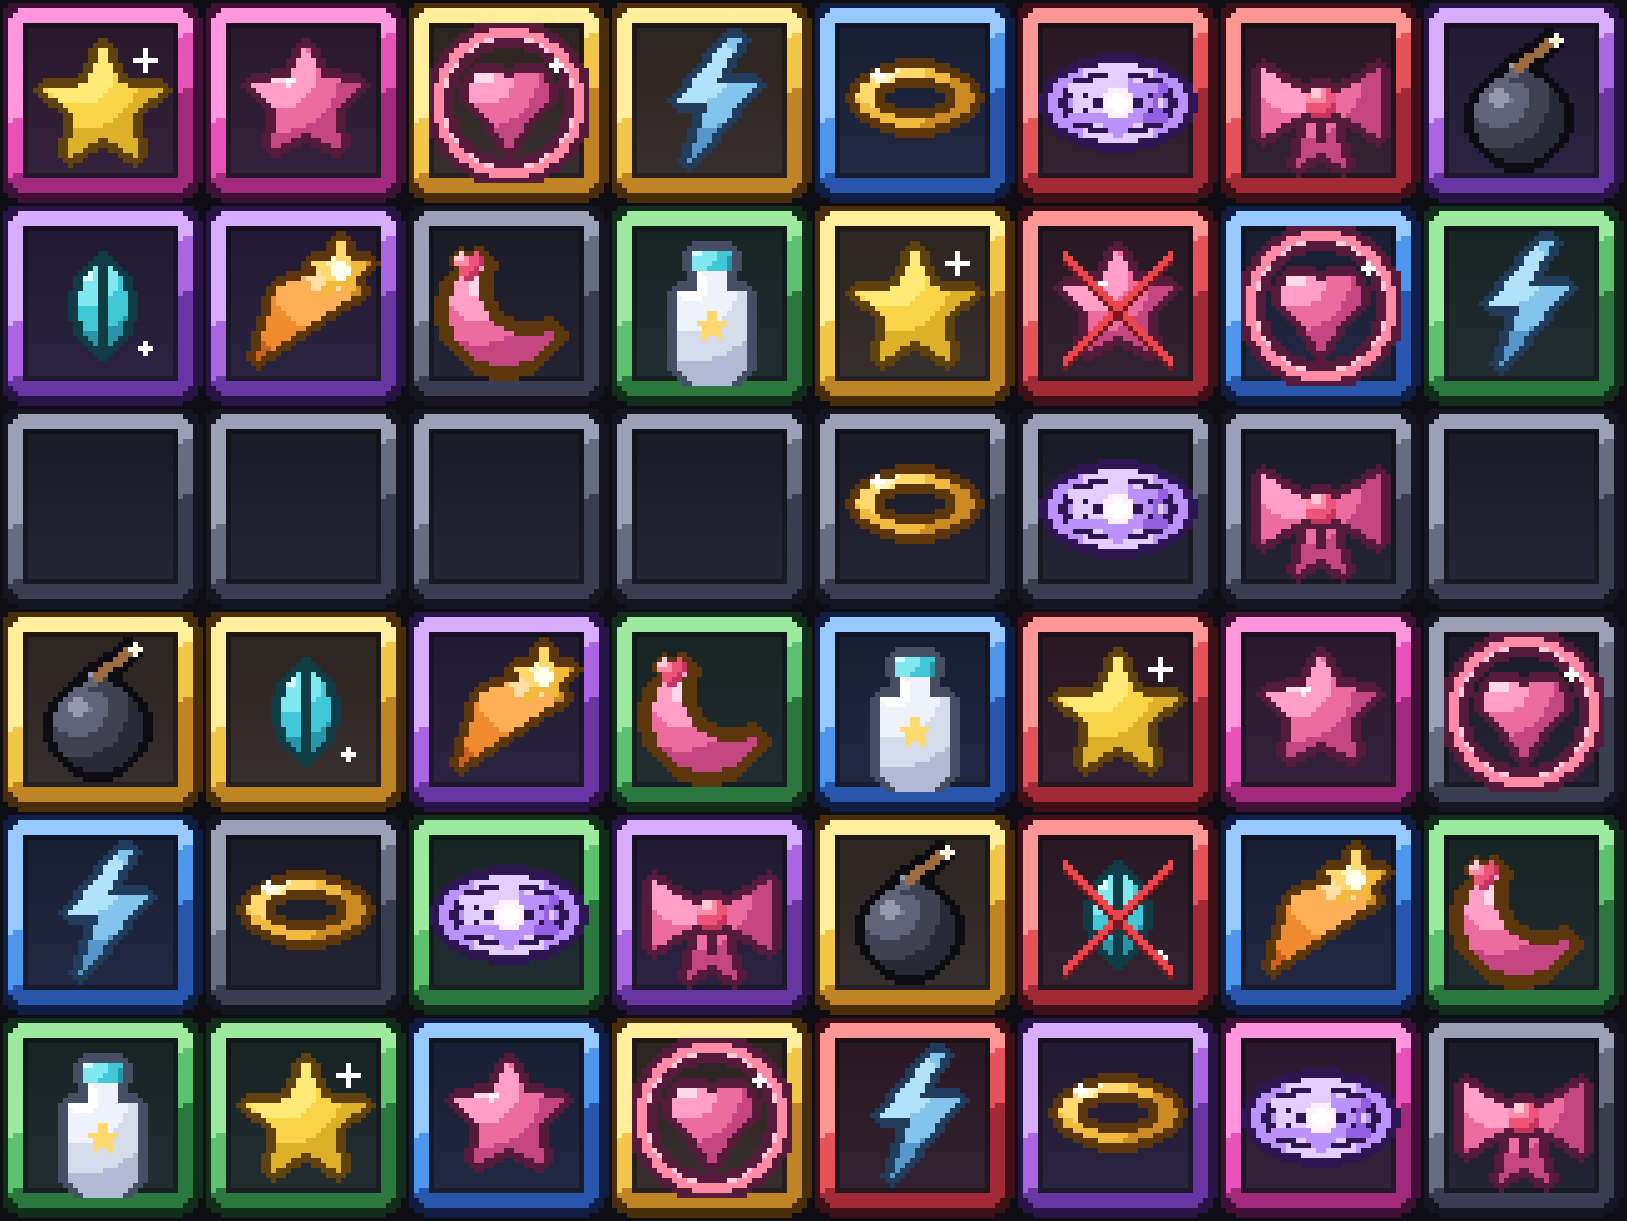
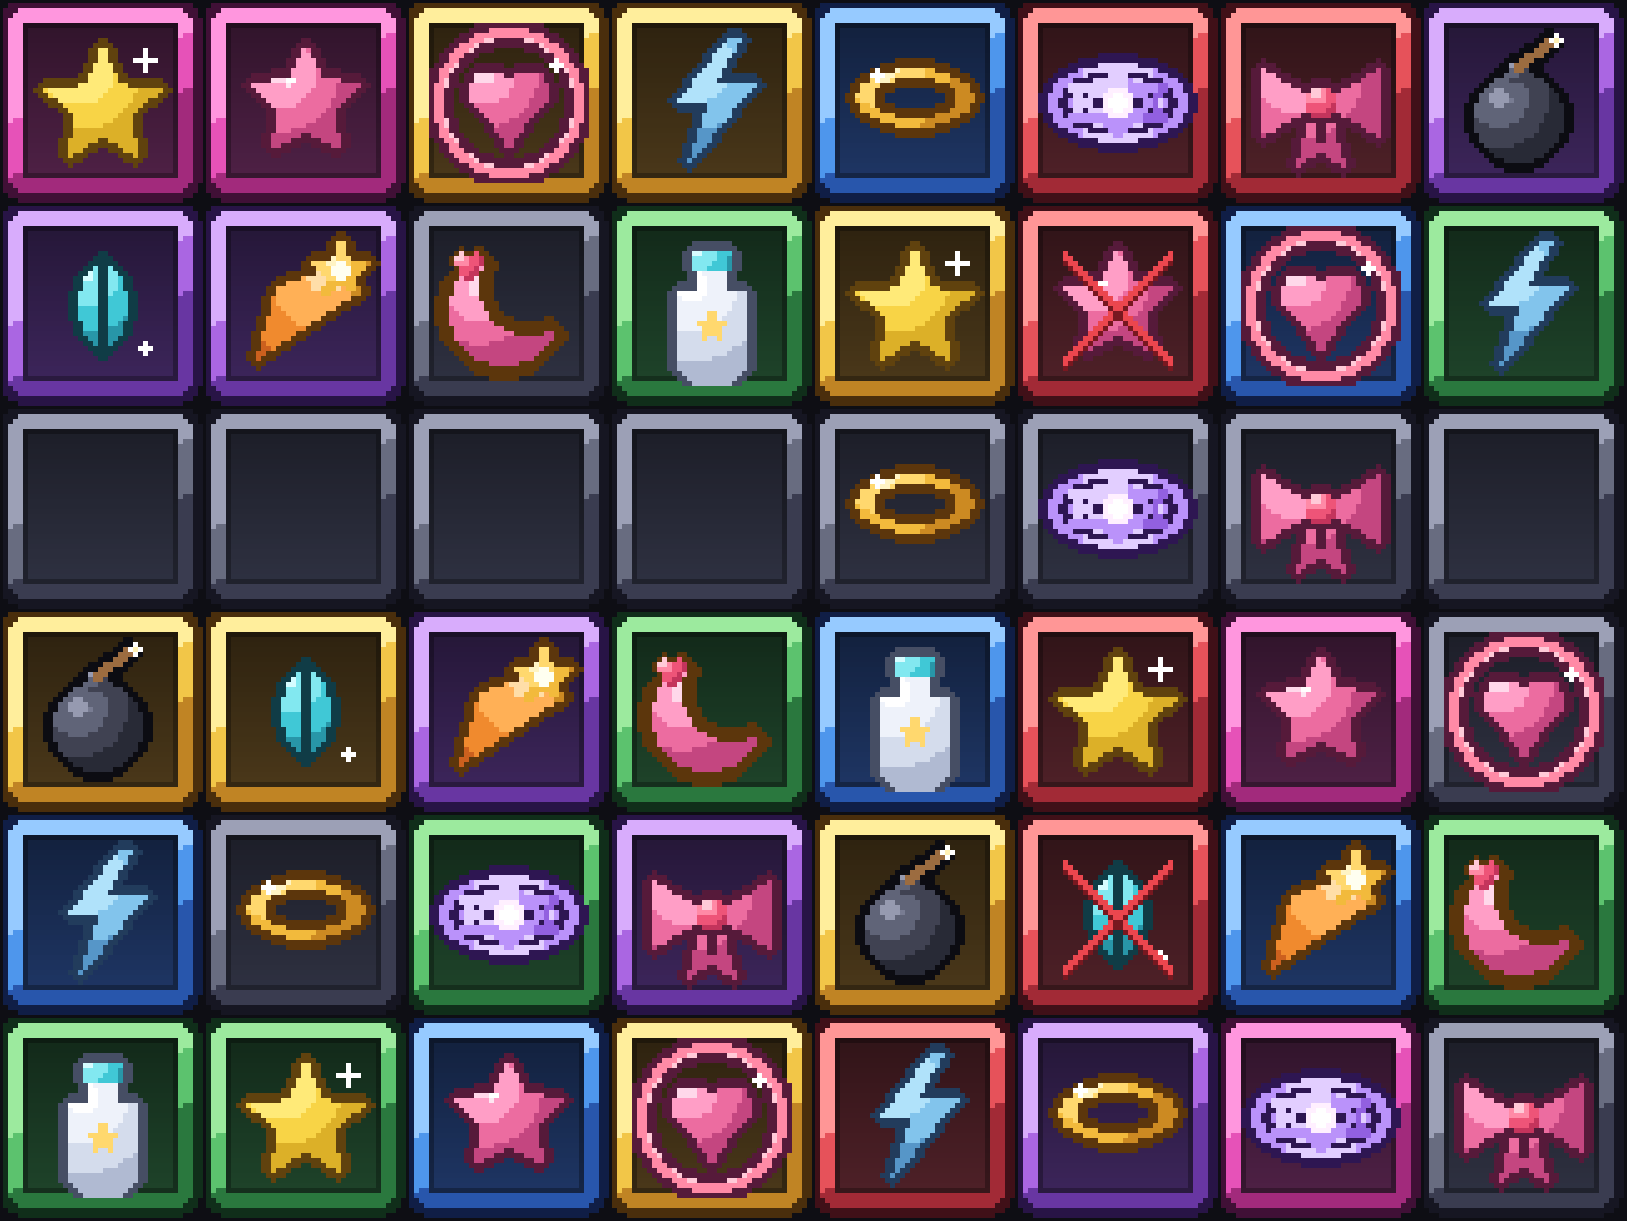
Tint slot backgrounds by rarity for at-a-glance reading
The recessed wells were near-neutral dark, so rarity read only from the border.
Give each rarity a dedicated dark-but-clearly-hued `well` colour (like the
reference) so the tier is obvious from the background too, keeping a soft
top→bottom gradient + inner shadow. Icons still read against it.

diff --git a/src/frames.js b/src/frames.js
@@ -19,14 +19,16 @@ const mix = (a, b, t) => [a[0] + (b[0] - a[0]) * t, a[1] + (b[1] - a[1]) * t, a[
 const scl = (c, k) => [c[0] * k, c[1] * k, c[2] * k];
 
 // rarity palettes: base border + light/dark bevel tints + dark rim/outline
+// base = border, lt/dk = bevel tints, rim = dark outline, well = recessed
+// background (a dark but clearly-hued rarity colour so the tier reads at a glance)
 const RARITY = {
-  gray:    { base: [104, 108, 128], lt: [156, 160, 182], dk: [58, 60, 80], rim: [22, 22, 34] },
-  green:   { base: [92, 194, 110], lt: [156, 234, 158], dk: [42, 120, 62], rim: [16, 46, 26] },
-  blue:    { base: [78, 150, 236], lt: [150, 202, 255], dk: [40, 86, 172], rim: [16, 30, 70] },
-  purple:  { base: [170, 102, 226], lt: [216, 172, 252], dk: [104, 54, 162], rim: [40, 20, 70] },
-  gold:    { base: [242, 198, 72], lt: [255, 238, 156], dk: [192, 132, 36], rim: [74, 46, 12] },
-  red:     { base: [230, 82, 90], lt: [255, 150, 150], dk: [162, 42, 54], rim: [64, 16, 24] },
-  magenta: { base: [230, 82, 184], lt: [255, 150, 222], dk: [162, 42, 124], rim: [64, 16, 54] },
+  gray:    { base: [104, 108, 128], lt: [156, 160, 182], dk: [58, 60, 80], rim: [22, 22, 34], well: [40, 42, 56] },
+  green:   { base: [92, 194, 110], lt: [156, 234, 158], dk: [42, 120, 62], rim: [16, 46, 26], well: [26, 58, 36] },
+  blue:    { base: [78, 150, 236], lt: [150, 202, 255], dk: [40, 86, 172], rim: [16, 30, 70], well: [26, 46, 86] },
+  purple:  { base: [170, 102, 226], lt: [216, 172, 252], dk: [104, 54, 162], rim: [40, 20, 70], well: [52, 32, 78] },
+  gold:    { base: [242, 198, 72], lt: [255, 238, 156], dk: [192, 132, 36], rim: [74, 46, 12], well: [64, 48, 22] },
+  red:     { base: [230, 82, 90], lt: [255, 150, 150], dk: [162, 42, 54], rim: [64, 16, 24], well: [68, 28, 34] },
+  magenta: { base: [230, 82, 184], lt: [255, 150, 222], dk: [162, 42, 124], rim: [64, 16, 54], well: [68, 28, 60] },
 };
 
 // draw one empty slot frame of a given rarity into a fresh S×S canvas
@@ -44,10 +46,9 @@ function drawSlot(rarity) {
         cv.set(x, y, li > 0.28 ? r.lt : li < -0.28 ? r.dk : r.base);
         continue;
       }
-      // recessed well: vertical gradient + faint rarity tint + inner top shadow
-      let bg = mix([21, 21, 31], [34, 34, 50], (y - 4) / (S - 8));
-      bg = mix(bg, r.dk, 0.14);
-      if (d > -5.4) bg = scl(bg, 0.68);                        // inner edge shadow
+      // recessed well: dark hued rarity background, top→bottom gradient, top shadow
+      let bg = mix(scl(r.well, 0.72), scl(r.well, 1.18), (y - 4) / (S - 8));
+      if (d > -5.4) bg = scl(bg, 0.7);                         // inner edge shadow
       cv.set(x, y, bg);
     }
   }
